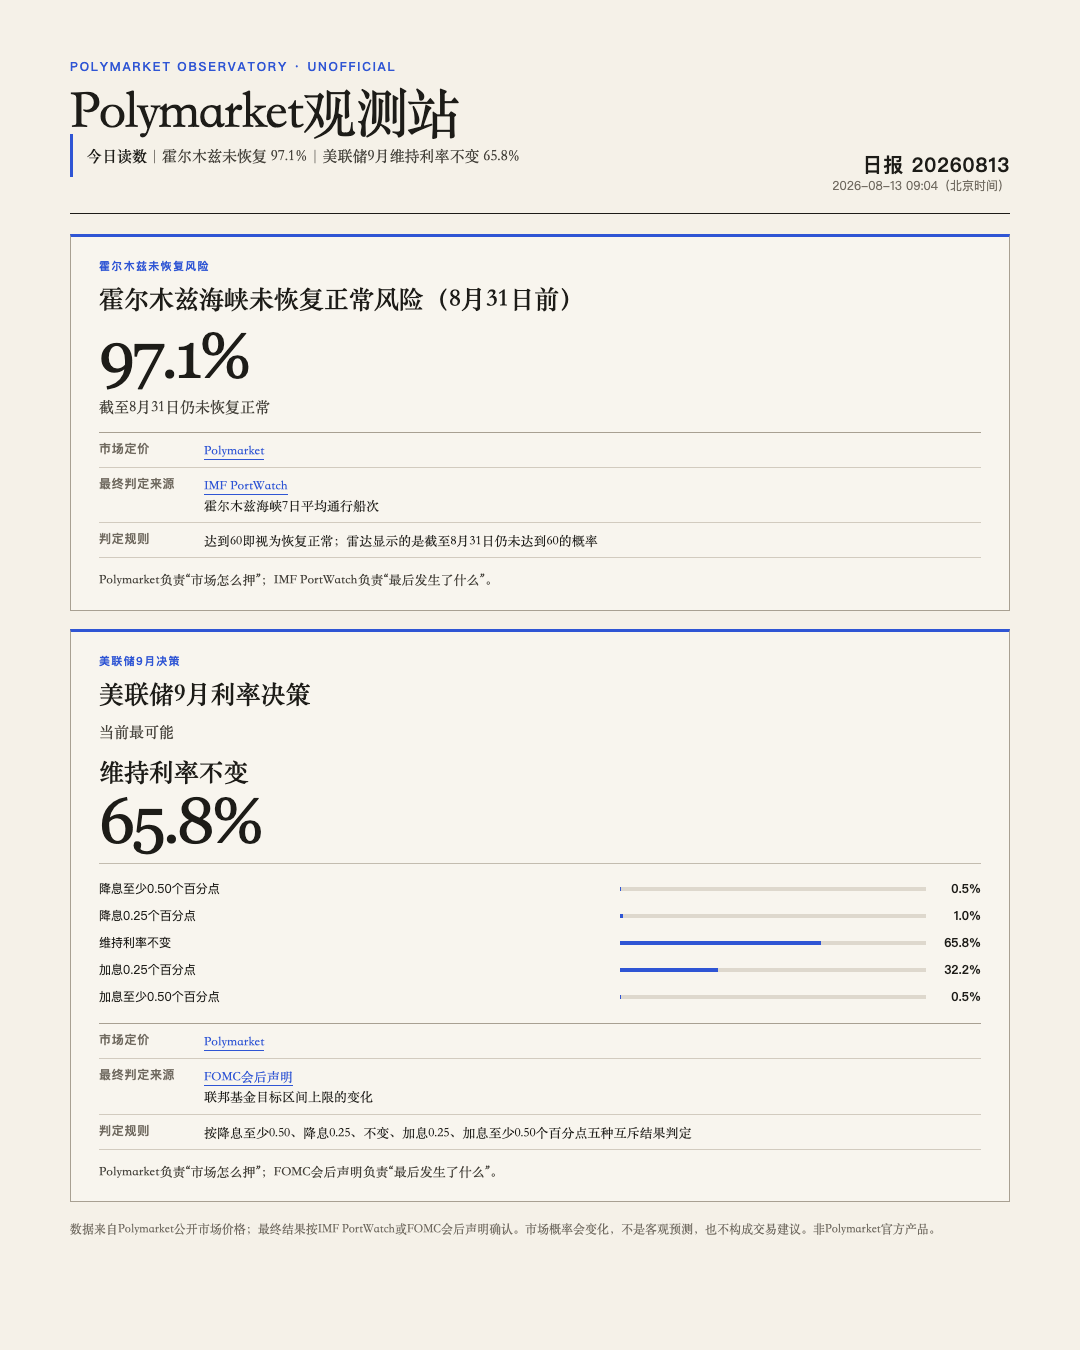
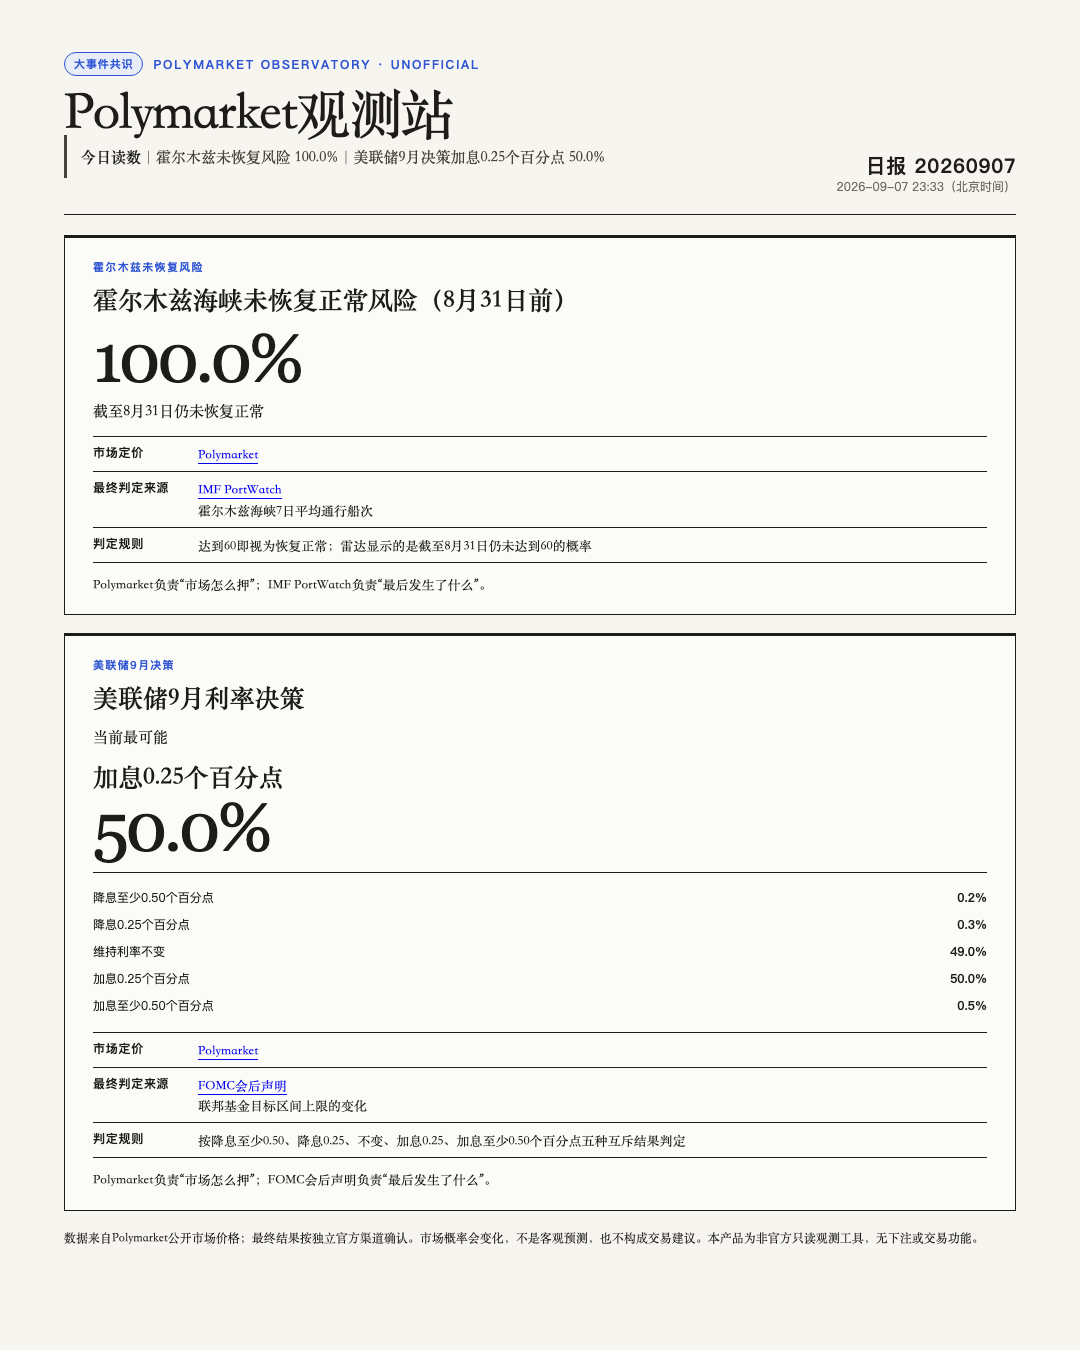
feat(radar): update event radar snapshot to 2026-09-07

diff --git a/source/event-radar/index.html b/source/event-radar/index.html
@@ -1,7 +1,7 @@
 ---
 layout: page
 title: Polymarket观测站
-description: 非官方的Polymarket事件概率观测页，记录霍尔木兹海峡通航恢复与美联储利率决策的最新可用读数。
+description: 非官方的Polymarket事件概率观测页，跟踪大事件市场概率分布与判定进展。
 header: false
 comments: false
 toc: false
@@ -12,72 +12,82 @@ permalink: /event-radar/
 
 <style>
 .event-radar-page-body .main-inner{max-width:1180px;width:calc(100% - 48px);}.radar-shell{padding:52px 0 78px;}
-.radar-shell{box-sizing:border-box;color:#1d1c18;font-family:"Lato","PingFang SC",sans-serif;}
-.radar-head{align-items:end;border-bottom:1px solid #1d1c18;display:flex;gap:28px;justify-content:space-between;margin-bottom:28px;padding-bottom:18px;}
-.radar-kicker{color:#2f55d4;font-size:12px;font-weight:900;letter-spacing:.15em;margin:0 0 9px;text-transform:uppercase;}
-.radar-head h1{font-family:"Libre Caslon Display","Songti SC",STSong,SimSun,serif;font-size:clamp(37px,5vw,58px);font-weight:400;letter-spacing:-.035em;line-height:1;margin:0;}
-.radar-time{color:#706a60;font-size:13px;line-height:1.45;margin:0;text-align:right;}
-.radar-time strong{color:#1d1c18;display:inline-block;font-size:20px;font-weight:800;letter-spacing:.04em;line-height:1.1;}
+
+body.radar-card{background:#f7f5f0;color:#1d1c18;}
+.radar-shell{color:#1d1c18;}
+.radar-head{border-bottom-color:#1d1c18;}
+.radar-time{color:#706a60;}
+.radar-time strong{color:#1d1c18;}
+.radar-summary{border-left-color:#2f55d4;color:#45423b;}
+.radar-summary strong{color:#1d1c18;}
+.radar-event{background:rgba(255,255,255,.55);border-color:#a8a092;border-top-color:#2f55d4;}
+.radar-number{color:#1d1c18;}
+.radar-question.radar-ended{color:#c2410c;font-weight:700;}
+.radar-brand-pill{background:#e8edf8;border:1px solid #2f55d4;color:#2f55d4;}
+
+.radar-shell{box-sizing:border-box;font-family:"Lato","PingFang SC",sans-serif;}
+.radar-head{align-items:end;border-bottom:1px solid;display:flex;gap:28px;justify-content:space-between;margin-bottom:28px;padding-bottom:18px;}
+.radar-kicker-row{align-items:center;display:flex;gap:10px;margin-bottom:9px;}
+.radar-brand-pill{border-radius:999px;font-size:11px;font-weight:900;letter-spacing:.08em;padding:3px 9px;text-transform:uppercase;}
+.radar-kicker{color:#2f55d4;font-size:12px;font-weight:900;letter-spacing:.15em;margin:0;text-transform:uppercase;}
+.radar-head h1{font-family:"Libre Caslon Display","Noto Serif SC",serif;font-size:clamp(37px,5vw,58px);font-weight:400;letter-spacing:-.035em;line-height:1;margin:0;}
+.radar-time{font-size:13px;line-height:1.45;margin:0;text-align:right;}
+.radar-time strong{display:inline-block;font-size:20px;font-weight:800;letter-spacing:.04em;line-height:1.1;}
 .radar-time small{font-size:12px;}
-.radar-summary{border-left:3px solid #2f55d4;color:#45423b;font-family:"Songti SC",STSong,SimSun,serif;font-size:16px;line-height:1.55;margin:0 0 24px;padding:10px 14px;}
-.radar-summary strong{color:#1d1c18;font-weight:700;}
+.radar-summary{border-left:3px solid;font-family:"Noto Serif SC",serif;font-size:16px;line-height:1.55;margin:0 0 24px;padding:10px 14px;}
 .radar-grid{display:grid;gap:22px;grid-template-columns:repeat(2,minmax(0,1fr));}
-.radar-event{background:rgba(255,255,255,.28);border:1px solid #a8a092;border-top:3px solid #2f55d4;padding:26px 28px 24px;}
+.radar-event{border:1px solid;border-top:3px solid;padding:26px 28px 24px;}
 .radar-eyebrow{color:#2f55d4;font-size:11px;font-weight:900;letter-spacing:.12em;margin:0 0 8px;text-transform:uppercase;}
-.radar-event h2{font-family:"Libre Caslon Text","Songti SC",STSong,SimSun,serif;font-size:23px;font-weight:600;line-height:1.3;margin:0 0 18px;}
+.radar-event h2{font-family:"Libre Caslon Text","Noto Serif SC",serif;font-size:23px;font-weight:600;line-height:1.3;margin:0 0 18px;}
 .radar-number{font-family:"Libre Caslon Display",Georgia,serif;font-size:68px;letter-spacing:-.05em;line-height:.95;margin:0 0 8px;}
-.radar-leader{font-family:"Songti SC",STSong,SimSun,serif;font-size:25px;font-weight:600;line-height:1.25;margin:0 0 4px;}
-.radar-question{color:#45423b;font-family:"Songti SC",STSong,SimSun,serif;font-size:15px;line-height:1.6;margin:0 0 22px;}
-.radar-outcomes{border-top:1px solid #c3bcaf;list-style:none;margin:18px 0 4px;padding:11px 0 0;}
+.radar-leader{font-family:"Noto Serif SC",serif;font-size:25px;font-weight:600;line-height:1.25;margin:0 0 4px;}
+.radar-question{font-family:"Noto Serif SC",serif;font-size:15px;line-height:1.6;margin:0 0 22px;}
+.radar-outcomes{border-top:1px solid;list-style:none;margin:18px 0 4px;padding:11px 0 0;}
 .radar-outcomes li{align-items:center;display:grid;font-size:12px;gap:10px;grid-template-columns:minmax(130px,1.25fr) minmax(70px,.75fr) 45px;padding:5px 0;}
 .radar-outcomes strong{font-variant-numeric:tabular-nums;text-align:right;}
-.radar-outcome-track{background:#ded8cd;height:4px;overflow:hidden;}
-.radar-outcome-track span{background:#2f55d4;display:block;height:100%;}
-.radar-method{border-top:1px solid #a8a092;margin:22px 0 0;}
-.radar-method>div{border-bottom:1px solid #d2cbbf;display:grid;gap:15px;grid-template-columns:72px 1fr;padding:10px 0;}
-.radar-method dt{color:#706a60;font-size:11px;font-weight:900;letter-spacing:.06em;}
-.radar-method dd{font-family:"Songti SC",STSong,SimSun,serif;font-size:12px;line-height:1.55;margin:0;}
-.radar-method a{border-bottom:1px solid currentColor;color:#2f55d4;text-decoration:none;}
-.radar-explainer{color:#45423b;font-family:"Songti SC",STSong,SimSun,serif;font-size:12px;line-height:1.65;margin:16px 0 0;}
-.radar-archive{border-top:1px solid #1d1c18;margin-top:28px;padding-top:20px;}
-.radar-archive[hidden]{display:none;}
-.radar-archive-head{align-items:baseline;display:flex;gap:14px;justify-content:space-between;margin-bottom:14px;}
-.radar-archive-head h2{font-family:"Libre Caslon Text","Songti SC",STSong,SimSun,serif;font-size:22px;font-weight:600;margin:0;}
-.radar-archive-head p{color:#706a60;font-family:"Songti SC",STSong,SimSun,serif;font-size:12px;margin:0;}
-.radar-event--archived{border-top-color:#8d877c;opacity:.9;}
-.radar-event--archived .radar-eyebrow{color:#706a60;}
-.radar-event--archived .radar-number{font-size:54px;}
+.radar-outcome-track{height:4px;overflow:hidden;}
+.radar-outcome-track span{display:block;height:100%;}
+.radar-method{border-top:1px solid;margin:22px 0 0;}
+.radar-method>div{border-bottom:1px solid;display:grid;gap:15px;grid-template-columns:72px 1fr;padding:10px 0;}
+.radar-method dt{font-size:11px;font-weight:900;letter-spacing:.06em;}
+.radar-method dd{font-family:"Noto Serif SC",serif;font-size:12px;line-height:1.55;margin:0;}
+.radar-method a{border-bottom:1px solid currentColor;text-decoration:none;}
+.radar-explainer{font-family:"Noto Serif SC",serif;font-size:12px;line-height:1.65;margin:16px 0 0;}
 .radar-actions{align-items:center;border-top:1px solid #1d1c18;display:flex;flex-wrap:wrap;gap:12px;margin-top:28px;padding-top:20px;}
 .radar-action{background:#2f55d4;border:1px solid #2f55d4;color:#fff!important;cursor:pointer;font:800 12px "Lato",sans-serif;letter-spacing:.04em;padding:12px 17px;text-decoration:none;}
 .radar-action--secondary{background:transparent;color:#2f55d4!important;}
 .radar-status{color:#706a60;font-size:12px;}
-.radar-foot{color:#706a60;font-family:"Songti SC",STSong,SimSun,serif;font-size:12px;line-height:1.65;margin:17px 0 0;}
+.radar-foot{font-family:"Noto Serif SC",serif;font-size:12px;line-height:1.65;margin:17px 0 0;}
+.radar-legend{font-size:12px;line-height:1.5;margin-top:8px;opacity:.8;}
 @media(max-width:760px){.radar-head{align-items:start;flex-direction:column;gap:12px;}.radar-time{text-align:left;}.radar-grid{grid-template-columns:1fr;}.radar-event{padding:23px 20px;}.radar-number{font-size:58px;}.radar-outcomes li{grid-template-columns:minmax(120px,1fr) 60px 42px;}}
 </style>
 <main class="radar-shell" aria-labelledby="radar-title">
   <header class="radar-head">
-    <div><p class="radar-kicker">Polymarket Observatory · Unofficial</p><h1 id="radar-title">Polymarket观测站</h1><p class="radar-summary"><strong>静态快照 · 数据截至 2026-09-02</strong>｜霍尔木兹9月30日前恢复正常 3%｜美联储9月维持利率不变 65.8%</p></div>
-    <p class="radar-time" data-radar-date="2026-09-02"><strong>日报 20260902</strong><br><small>2026-09-02 16:19（北京时间）</small></p>
+    <div>
+      <div class="radar-kicker-row">
+        <span class="radar-brand-pill">大事件共识</span>
+        <p class="radar-kicker">Polymarket Observatory · Unofficial</p>
+      </div>
+      <h1 id="radar-title">Polymarket观测站</h1>
+      <p class="radar-summary"><strong>今日读数</strong>｜霍尔木兹未恢复风险 100.0%｜美联储9月决策加息0.25个百分点 50.0%</p>
+    </div>
+    <p class="radar-time" data-radar-date="2026-09-07"><strong>日报 20260907</strong><br><small>2026-09-07 23:33（北京时间）</small></p>
   </header>
-  <div class="radar-grid"><article class="radar-event"><p class="radar-eyebrow">霍尔木兹通航恢复</p><h2>霍尔木兹海峡在9月30日前恢复正常？</h2><p class="radar-number">3%</p><p class="radar-question">市场对“9月30日前恢复正常”的隐含概率（2026-09-02抓取）</p><dl class="radar-method"><div><dt>市场定价</dt><dd><a href="https://polymarket.com/event/strait-of-hormuz-traffic-returns-to-normal-by-september-30-20260702154339440" target="_blank" rel="noopener">Polymarket</a></dd></div><div><dt>最终判定来源</dt><dd><a href="https://portwatch.imf.org/pages/cb5856222a5b4105adc6ee7e880a1730" target="_blank" rel="noopener">IMF PortWatch</a><br>霍尔木兹海峡7日平均通行船次（Arrivals of Ships）</dd></div><div><dt>判定规则</dt><dd>若截至9月30日任一日期的7日移动平均通行船次达到60，则判定“是”；否则为“否”。</dd></div></dl><p class="radar-explainer">3%是市场定价，不是事实判断。8月31日到期合约已移出当前读数；走势图将从本次读数起持续积累。</p></article><article class="radar-event"><p class="radar-eyebrow">美联储9月决策</p><h2>美联储9月利率决策</h2><p class="radar-question">当前最可能</p><p class="radar-leader">维持利率不变</p><p class="radar-number">65.8%</p><ol class="radar-outcomes" aria-label="五个互斥结果，合计100%"><li><span>降息至少0.50个百分点</span><span class="radar-outcome-track" aria-hidden="true"><span style="width:0.5%"></span></span><strong>0.5%</strong></li><li><span>降息0.25个百分点</span><span class="radar-outcome-track" aria-hidden="true"><span style="width:1.0%"></span></span><strong>1.0%</strong></li><li><span>维持利率不变</span><span class="radar-outcome-track" aria-hidden="true"><span style="width:65.8%"></span></span><strong>65.8%</strong></li><li><span>加息0.25个百分点</span><span class="radar-outcome-track" aria-hidden="true"><span style="width:32.2%"></span></span><strong>32.2%</strong></li><li><span>加息至少0.50个百分点</span><span class="radar-outcome-track" aria-hidden="true"><span style="width:0.5%"></span></span><strong>0.5%</strong></li></ol><dl class="radar-method"><div><dt>市场定价</dt><dd><a href="https://polymarket.com/event/fed-decision-in-september-762" target="_blank" rel="noopener">Polymarket</a></dd></div><div><dt>最终判定来源</dt><dd><a href="https://www.federalreserve.gov/monetarypolicy/fomccalendars.htm" target="_blank" rel="noopener">FOMC会后声明</a><br>联邦基金目标区间上限的变化</dd></div><div><dt>判定规则</dt><dd>按降息至少0.50、降息0.25、不变、加息0.25、加息至少0.50个百分点五种互斥结果判定</dd></div></dl><p class="radar-explainer">Polymarket负责“市场怎么押”；FOMC会后声明负责“最后发生了什么”。</p></article></div>
-
-  <section class="radar-archive" id="radar-archive" hidden aria-labelledby="radar-archive-title">
-    <div class="radar-archive-head"><h2 id="radar-archive-title">归档事件</h2><p>已结束或不再作为当前读数的合约</p></div>
-    <div class="radar-grid"><article class="radar-event radar-event--archived"><p class="radar-eyebrow">已结束合约 · 2026-08-31</p><h2>霍尔木兹海峡在8月31日前恢复正常？</h2><p class="radar-number">97.1%</p><p class="radar-question">最后一次保存的市场读数：截至8月31日仍未恢复正常（2026-08-13）</p><dl class="radar-method"><div><dt>历史快照</dt><dd>日报 20260813 · 09:04（北京时间）</dd></div><div><dt>合约页面</dt><dd><a href="https://polymarket.com/event/strait-of-hormuz-traffic-returns-to-normal-by-august-31-20260702154212320" target="_blank" rel="noopener">查看 Polymarket 合约</a></dd></div><div><dt>说明</dt><dd>该合约已过截止日期，不再参与当前读数；97.1%仅代表当时的“未恢复正常”市场概率，不等于最终事实。</dd></div></dl></article></div>
-  </section>
+  <div class="radar-grid"><article class="radar-event"><p class="radar-eyebrow">霍尔木兹未恢复风险</p><h2>霍尔木兹海峡未恢复正常风险（8月31日前）</h2><p class="radar-number">100.0%</p><p class="radar-question">截至8月31日仍未恢复正常</p><dl class="radar-method"><div><dt>市场定价</dt><dd><a href="https://polymarket.com/event/strait-of-hormuz-traffic-returns-to-normal-by-august-31-20260702154212320" target="_blank" rel="noopener">Polymarket</a></dd></div><div><dt>最终判定来源</dt><dd><a href="https://portwatch.imf.org/pages/cb5856222a5b4105adc6ee7e880a1730" target="_blank" rel="noopener">IMF PortWatch</a><br>霍尔木兹海峡7日平均通行船次</dd></div><div><dt>判定规则</dt><dd>达到60即视为恢复正常；雷达显示的是截至8月31日仍未达到60的概率</dd></div></dl><p class="radar-explainer">Polymarket负责“市场怎么押”；IMF PortWatch负责“最后发生了什么”。</p></article><article class="radar-event"><p class="radar-eyebrow">美联储9月决策</p><h2>美联储9月利率决策</h2><p class="radar-question">当前最可能</p><p class="radar-leader">加息0.25个百分点</p><p class="radar-number">50.0%</p><ol class="radar-outcomes" aria-label="五个互斥结果，合计100%"><li><span>降息至少0.50个百分点</span><span class="radar-outcome-track" aria-hidden="true"><span style="width:0.2%"></span></span><strong>0.2%</strong></li><li><span>降息0.25个百分点</span><span class="radar-outcome-track" aria-hidden="true"><span style="width:0.3%"></span></span><strong>0.3%</strong></li><li><span>维持利率不变</span><span class="radar-outcome-track" aria-hidden="true"><span style="width:49.0%"></span></span><strong>49.0%</strong></li><li><span>加息0.25个百分点</span><span class="radar-outcome-track" aria-hidden="true"><span style="width:50.0%"></span></span><strong>50.0%</strong></li><li><span>加息至少0.50个百分点</span><span class="radar-outcome-track" aria-hidden="true"><span style="width:0.5%"></span></span><strong>0.5%</strong></li></ol><dl class="radar-method"><div><dt>市场定价</dt><dd><a href="https://polymarket.com/event/fed-decision-in-september-762" target="_blank" rel="noopener">Polymarket</a></dd></div><div><dt>最终判定来源</dt><dd><a href="https://www.federalreserve.gov/monetarypolicy/fomccalendars.htm" target="_blank" rel="noopener">FOMC会后声明</a><br>联邦基金目标区间上限的变化</dd></div><div><dt>判定规则</dt><dd>按降息至少0.50、降息0.25、不变、加息0.25、加息至少0.50个百分点五种互斥结果判定</dd></div></dl><p class="radar-explainer">Polymarket负责“市场怎么押”；FOMC会后声明负责“最后发生了什么”。</p></article></div>
 
   <div class="radar-actions" aria-label="分享选项">
-    <button class="radar-action radar-action--secondary" type="button" data-radar-archive-toggle aria-expanded="false" aria-controls="radar-archive">归档事件</button>
     <button class="radar-action" type="button" data-radar-share>分享页面</button>
     <button class="radar-action radar-action--secondary" type="button" data-radar-copy>复制分享摘要</button>
+    <a class="radar-action radar-action--secondary" href="/images/event-radar-latest.png" download>下载朋友圈图片</a>
     <span class="radar-status" role="status" aria-live="polite"></span>
   </div>
-  <p class="radar-foot">概率来自Polymarket公开市场价格。Polymarket提供市场预期，IMF PortWatch或FOMC会后声明负责确认最终事实。市场概率会变化，不是客观预测，也不构成交易建议。本产品为非官方观测工具，与Polymarket无隶属或合作关系。</p>
+  <p class="radar-foot">概率来自Polymarket公开市场价格。Polymarket提供市场预期，独立数据源（如IMF PortWatch或FOMC会后声明）负责确认最终事实。市场概率会变化，不是客观预测，也不构成交易建议。本产品为非官方观测工具，不连接钱包，无交易/下注功能，与Polymarket无隶属或合作关系。</p>
+  <p class="radar-legend">注：pp = 百分点（percentage point），表示概率变动的绝对差值；如 40% 变动到 45% 为 +5pp。</p>
 </main>
 <script>
 (() => {
-  const text = "Polymarket观测站｜日报 20260902\n今日读数：\n霍尔木兹：9月30日前恢复正常 3%（市场隐含概率）\n美联储9月：维持利率不变 65.8%\n五个互斥结果：降息至少0.50个百分点 0.5%；降息0.25个百分点 1.0%；维持利率不变 65.8%；加息0.25个百分点 32.2%；加息至少0.50个百分点 0.5%\n概率来自Polymarket；最终结果按各事件的独立判定指标确认。\n仅反映市场当时预期，不构成交易建议。\n非Polymarket官方产品。\nhttps://terazadl.github.io/event-radar/";
-  const title = "Polymarket观测站｜霍尔木兹与美联储";
+  const text = "Polymarket观测站｜日报 20260907\n今日读数：\n霍尔木兹未恢复风险：截至8月31日仍未恢复正常 100.0%\n美联储9月决策：加息0.25个百分点 50.0%\n五个互斥结果：降息至少0.50个百分点 0.2%；降息0.25个百分点 0.3%；维持利率不变 49.0%；加息0.25个百分点 50.0%；加息至少0.50个百分点 0.5%\n概率来自Polymarket；最终结果按各事件的独立判定指标确认。\n仅反映市场当时预期，不构成交易建议。\n注：本产品为只读观测工具，不连接钱包、不提供交易下注功能。\n非Polymarket官方产品。";
+  const title = "Polymarket观测站｜霍尔木兹未恢复风险与美联储9月决策";
   const status = document.querySelector('.radar-status');
   const setStatus = value => { if (status) status.textContent = value; };
   const copy = async () => {
@@ -85,15 +95,6 @@ permalink: /event-radar/
     catch (_) { setStatus('复制失败，请手动选择文字'); }
   };
   document.querySelector('[data-radar-copy]')?.addEventListener('click', copy);
-  document.querySelector('[data-radar-archive-toggle]')?.addEventListener('click', event => {
-    const button = event.currentTarget;
-    const archive = document.getElementById('radar-archive');
-    if (!archive) return;
-    const willOpen = archive.hidden;
-    archive.hidden = !willOpen;
-    button.setAttribute('aria-expanded', String(willOpen));
-    button.textContent = willOpen ? '收起归档' : '归档事件';
-  });
   document.querySelector('[data-radar-share]')?.addEventListener('click', async () => {
     if (navigator.share) {
       try { await navigator.share({ title, text, url: window.location.href }); } catch (_) {}
